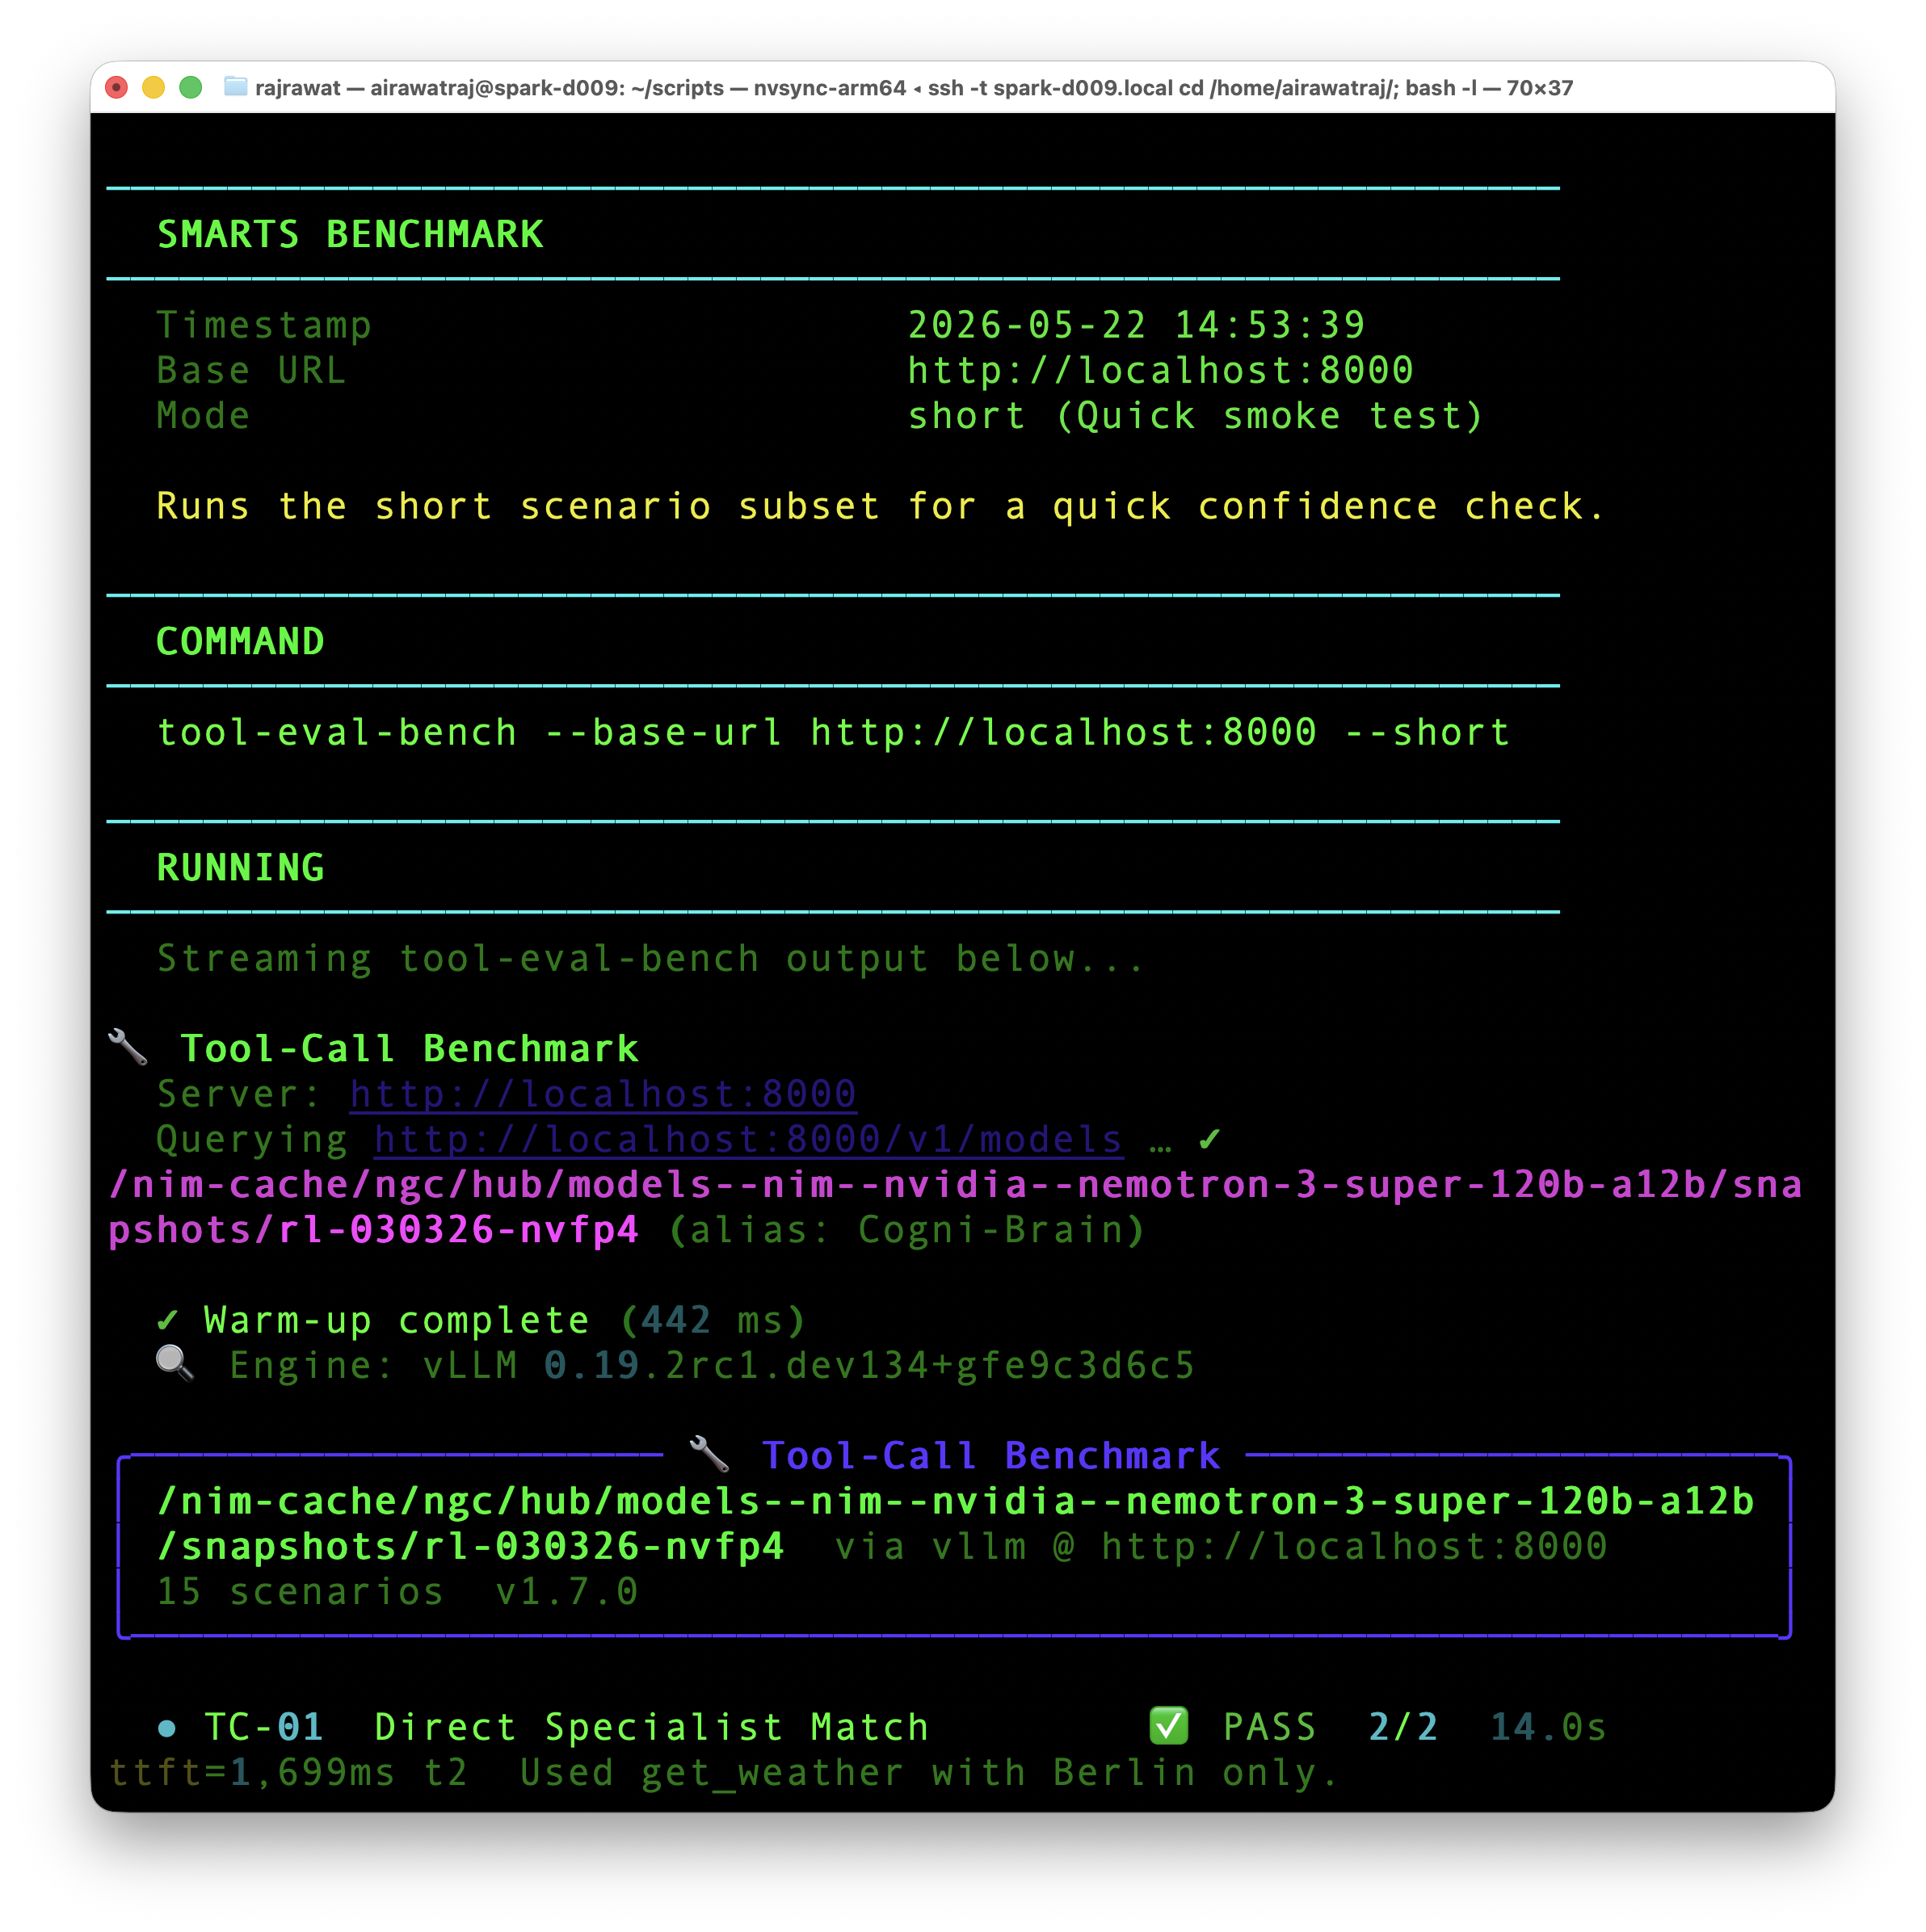
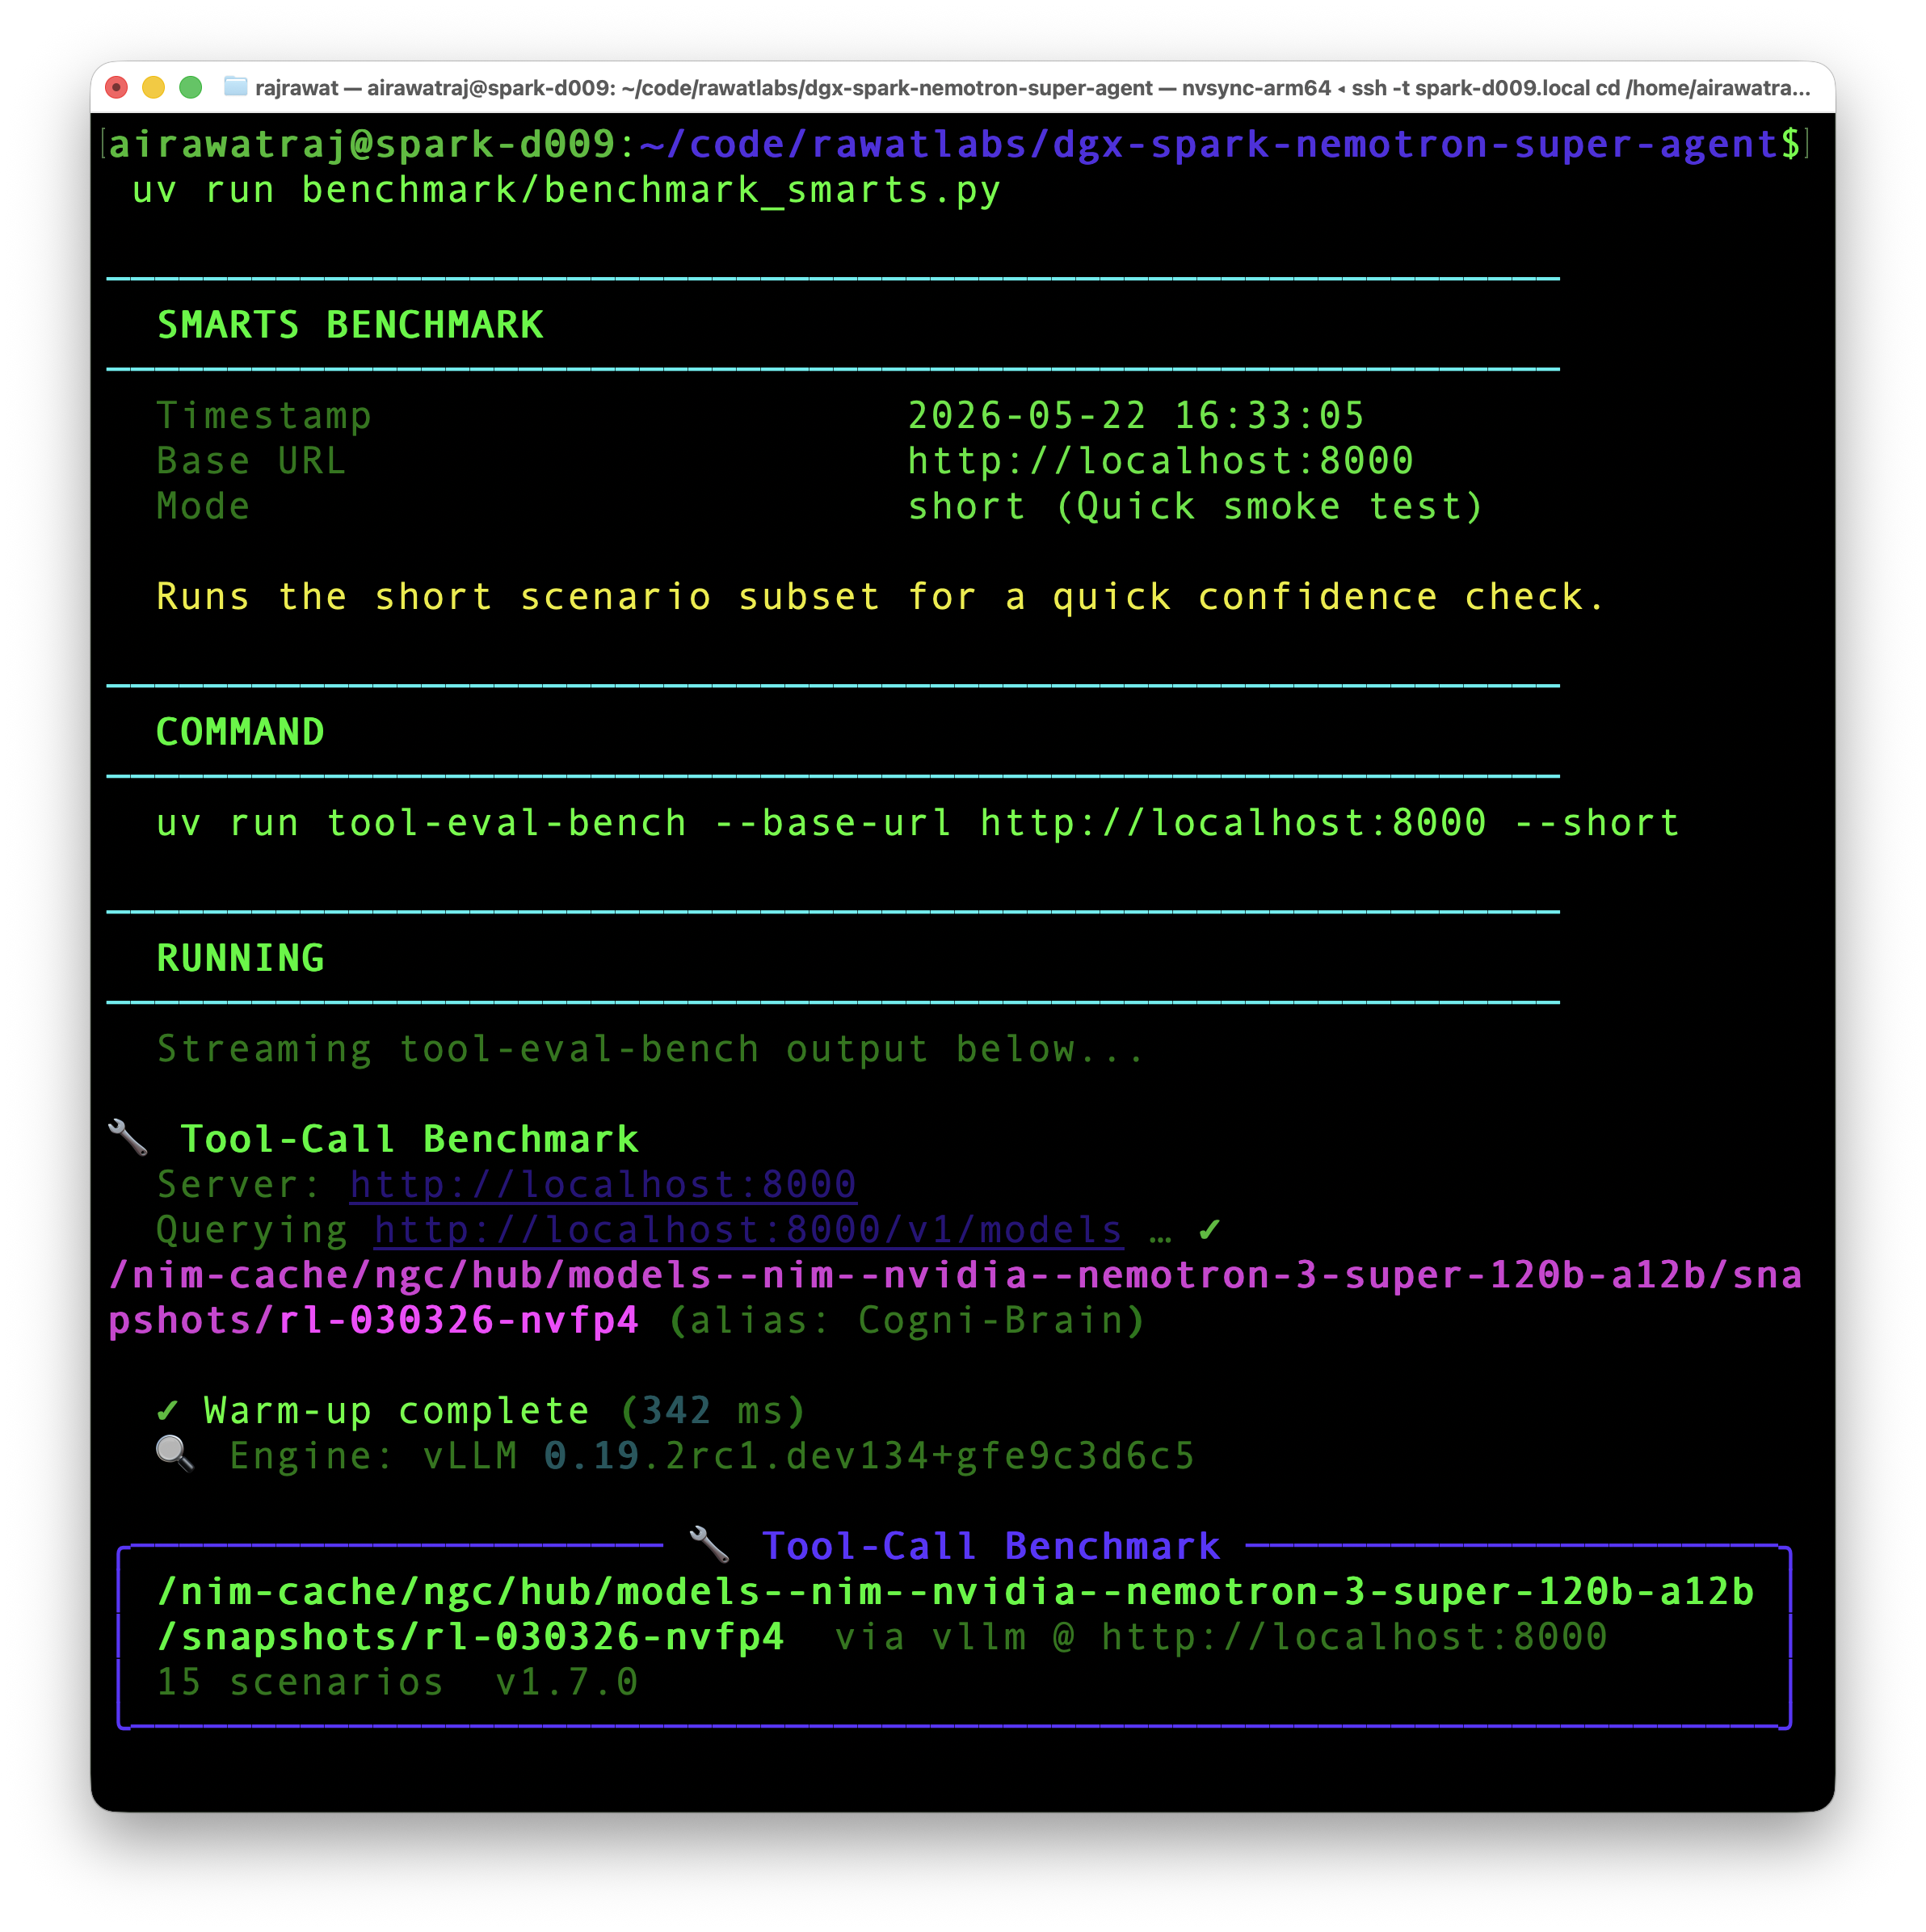
docs: refresh smarts benchmark results and screenshots

diff --git a/README.md b/README.md
@@ -118,14 +118,14 @@ View full benchmark: [spark-arena.com/benchmark/sub1778644062716](https://spark-
 
 | Metric | Result |
 |---|---|
-| Overall score | **87 / 100** |
-| Rating | **★★★★ Good** |
+| Overall score | **93 / 100** |
+| Rating | **★★★★★ Excellent** |
 | Scenarios | **15** |
-| Passed / Partial / Failed | **12 / 2 / 1** |
-| Best categories | **Tool Selection 100%, Multi-Step Chains 100%** |
+| Passed / Partial / Failed | **14 / 0 / 1** |
+| Best categories | **Tool Selection 100%, Multi-Step Chains 100%, Restraint & Refusal 100%, Error Recovery 100%** |
 | Weakest category | **Parameter Precision 67%** |
-| Responsiveness | **21 / 100** |
-| Deployability | **67 / 100** |
+| Responsiveness | **24 / 100** |
+| Deployability | **72 / 100** |
 
 <p align="center">
   <img src="./assets/benchmark_smarts_1.png" width="600" alt="Tool-eval benchmark summary 1">